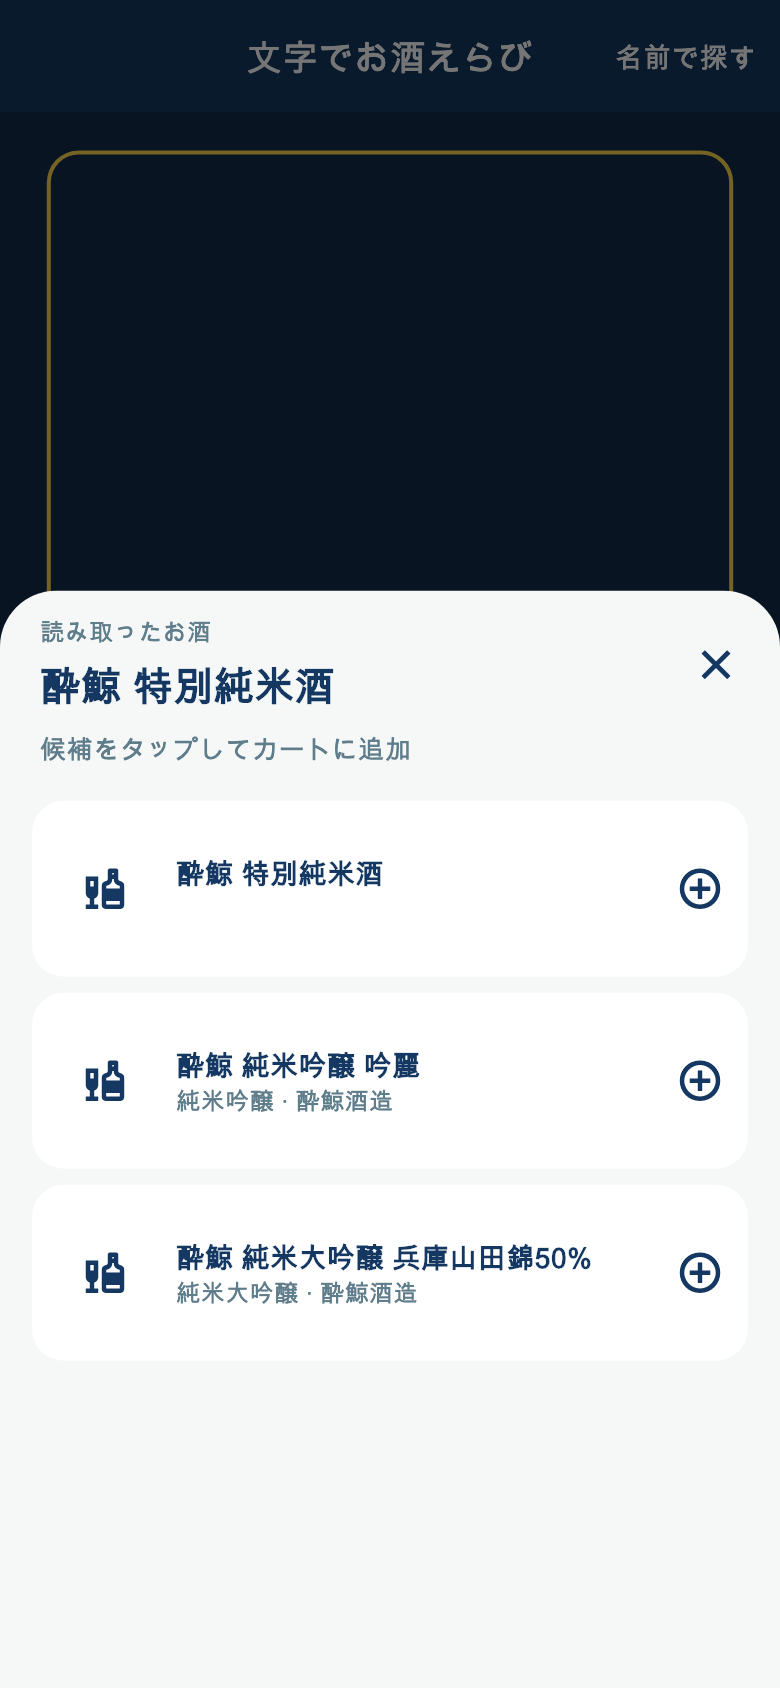
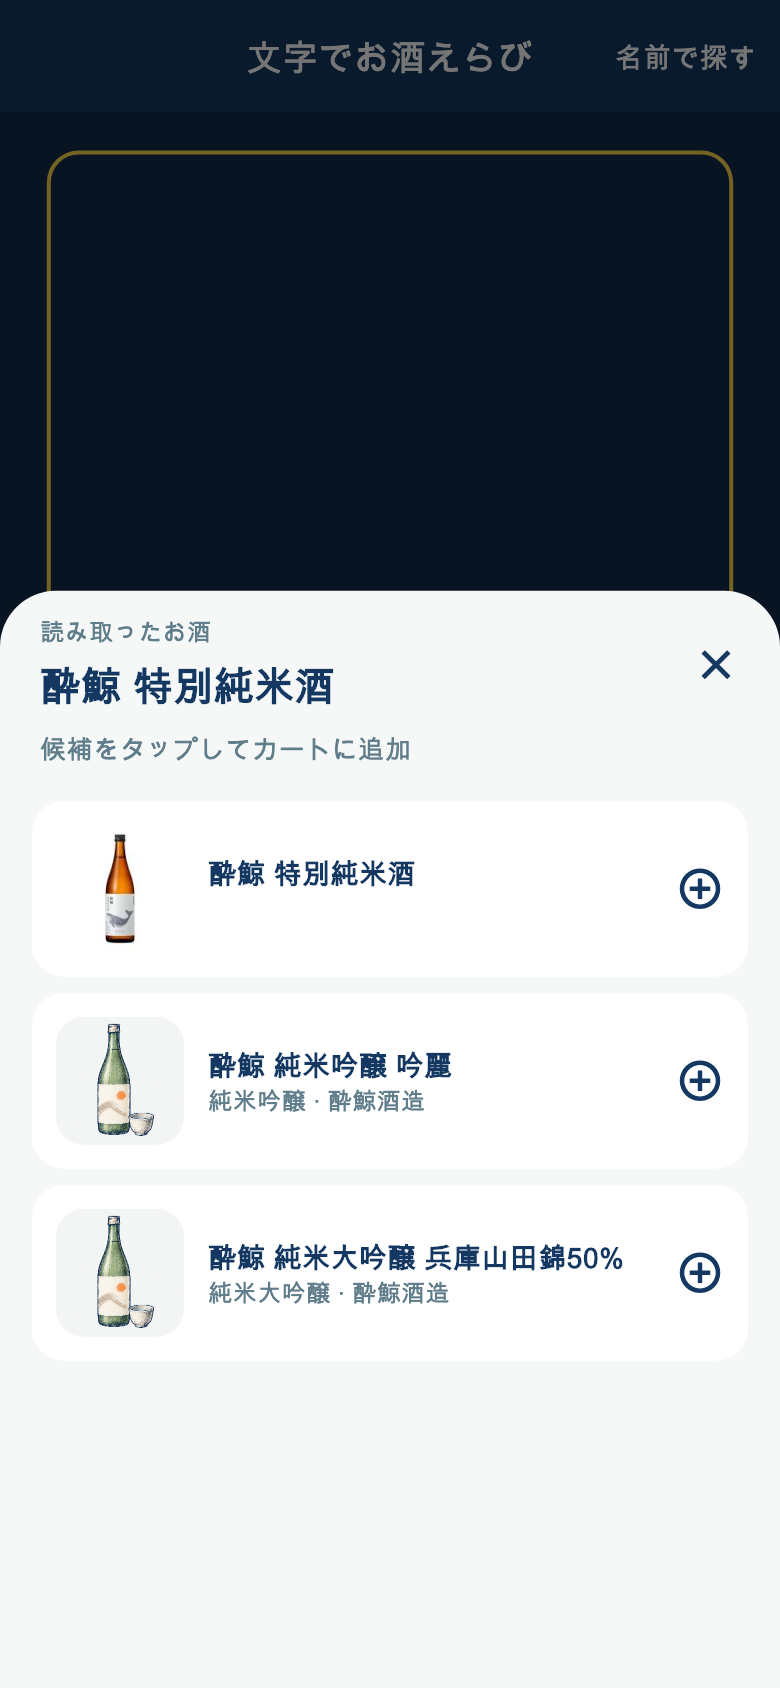
Use catalog photos and illustrated fallback in live scan candidates

diff --git a/test/presentation/sake_comparison/live_sake_scanner_test.dart b/test/presentation/sake_comparison/live_sake_scanner_test.dart
@@ -23,6 +23,7 @@ import 'package:mola_gemini_flutter_template/presentation/sake_comparison/device
 import 'package:mola_gemini_flutter_template/presentation/sake_comparison/live_sake_scanner_page.dart';
 import 'package:mola_gemini_flutter_template/presentation/sake_comparison/live_sake_search.dart';
 import '../../support/fake_menu_camera.dart';
+import '../../support/fake_network_images.dart';
 
 class StreamingCamera extends FakeMenuCamera {
   final frames = StreamController<CameraImageData>.broadcast();
@@ -61,6 +62,21 @@ void main() {
     'candidate sheet pauses OCR, closes without selection, and adds twice with haptics and cart flights',
     (tester) async {
       const output = String.fromEnvironment('LIVE_SAKE_UI_OUTPUT');
+      const photoPath = String.fromEnvironment('LIVE_SAKE_PHOTO');
+      final photoBytes = await tester.runAsync(
+        () => File(
+          photoPath.isEmpty
+              ? 'assets/images/sake_catalog_illustration.png'
+              : photoPath,
+        ).readAsBytes(),
+      );
+      final images = FakeImageClient(photoBytes!);
+      debugNetworkImageHttpClientProvider = () => images;
+      addTearDown(() {
+        debugNetworkImageHttpClientProvider = null;
+        PaintingBinding.instance.imageCache.clear();
+        PaintingBinding.instance.imageCache.clearLiveImages();
+      });
       final original = CameraPlatform.instance;
       final camera = StreamingCamera();
       CameraPlatform.instance = camera;
@@ -134,6 +150,10 @@ void main() {
               sakeId: query.contains('阿櫻') ? 2 : 1,
               name: query.contains('阿櫻') ? '阿櫻 特別純米' : '酔鯨 特別純米酒',
               isMaster: true,
+              thumbnailImageUrl: 'https://example.invalid/missing-thumb.jpg',
+              primaryImageUrl: query.contains('阿櫻')
+                  ? null
+                  : 'https://item-shopping.c.yimg.jp/i/g/fukumasu-ya_19533x001',
             ),
             if (!query.contains('阿櫻')) ...[
               const SakeMapSearchResult(
@@ -264,6 +284,22 @@ void main() {
       );
       expect(haptics, hasLength(2));
       expect(searches, isNotEmpty);
+      await tester.runAsync(
+        () async => Future<void>.delayed(const Duration(milliseconds: 100)),
+      );
+      await tester.pumpAndSettle();
+      expect(
+        images.requested.map((u) => u.path),
+        containsAllInOrder([
+          '/missing-thumb.jpg',
+          '/i/g/fukumasu-ya_19533x001',
+        ]),
+      );
+      expect(
+        find.byKey(const ValueKey('sake-catalog-illustration')),
+        findsNWidgets(2),
+      );
+      expect(find.byIcon(Icons.liquor), findsNothing);
       await shot('01-candidates');
       await tester.tap(find.byIcon(Icons.add_circle_outline).first);
       await tester.pump();
@@ -294,6 +330,7 @@ void main() {
       await tester.pumpWidget(const SizedBox());
       await tester.pump();
       expect(camera.disposed, isNotEmpty);
+      debugNetworkImageHttpClientProvider = null;
       debugDefaultTargetPlatformOverride = null;
     },
   );

diff --git a/lib/presentation/sake_comparison/live_sake_scanner_page.dart b/lib/presentation/sake_comparison/live_sake_scanner_page.dart
@@ -8,6 +8,7 @@ import 'package:flutter/services.dart';
 import '../../domain/eintities/preferences/taste_preference_profile.dart';
 import '../../domain/eintities/response/sake_menu_recognition_response/sake_menu_recognition_response.dart';
 import '../../domain/repository/place_map_repository.dart';
+import '../new_home/widgets/sake_catalog_thumbnail.dart';
 import 'comparison_item.dart';
 import 'comparison_sketch_icon.dart';
 import 'device_text_reader.dart';
@@ -609,7 +610,6 @@ class _LiveSakeScannerPageState extends State<LiveSakeScannerPage>
         text: '',
         profile: profile,
       ).match(widget.preference);
-      final image = candidate.thumbnailImageUrl ?? candidate.primaryImageUrl;
       return Material(
         color: Colors.white,
         borderRadius: BorderRadius.circular(16),
@@ -623,17 +623,10 @@ class _LiveSakeScannerPageState extends State<LiveSakeScannerPage>
             padding: const EdgeInsets.all(12),
             child: Row(
               children: [
-                SizedBox(
-                  width: 48,
-                  height: 64,
-                  child: image == null
-                      ? const Icon(Icons.liquor, color: _navy)
-                      : Image.network(
-                          image,
-                          fit: BoxFit.contain,
-                          errorBuilder: (_, _, _) =>
-                              const Icon(Icons.liquor, color: _navy),
-                        ),
+                SakeCatalogThumbnail(
+                  thumbnailImageUrl: candidate.thumbnailImageUrl,
+                  primaryImageUrl: candidate.primaryImageUrl,
+                  size: 64,
                 ),
                 const SizedBox(width: 12),
                 Expanded(

diff --git a/test/support/fake_network_images.dart b/test/support/fake_network_images.dart
@@ -1,0 +1,54 @@
+import 'dart:async';
+import 'dart:io';
+
+/// Serves image bytes deterministically without accessing the network in tests.
+class FakeImageClient implements HttpClient {
+  FakeImageClient(this.bytes);
+  final List<int> bytes;
+  final requested = <Uri>[];
+
+  @override
+  Future<HttpClientRequest> getUrl(Uri url) async {
+    requested.add(url);
+    return _ImageRequest(bytes, url.path.contains('missing') ? 404 : 200);
+  }
+
+  @override
+  dynamic noSuchMethod(Invocation invocation) => super.noSuchMethod(invocation);
+}
+
+class _ImageRequest implements HttpClientRequest {
+  _ImageRequest(this.bytes, this.status);
+  final List<int> bytes;
+  final int status;
+  @override
+  Future<HttpClientResponse> close() async => _ImageResponse(bytes, status);
+  @override
+  dynamic noSuchMethod(Invocation invocation) => super.noSuchMethod(invocation);
+}
+
+class _ImageResponse extends Stream<List<int>> implements HttpClientResponse {
+  _ImageResponse(this.bytes, this.statusCode);
+  final List<int> bytes;
+  @override
+  final int statusCode;
+  @override
+  int get contentLength => bytes.length;
+  @override
+  HttpClientResponseCompressionState get compressionState =>
+      HttpClientResponseCompressionState.notCompressed;
+  @override
+  StreamSubscription<List<int>> listen(
+    void Function(List<int>)? onData, {
+    Function? onError,
+    void Function()? onDone,
+    bool? cancelOnError,
+  }) => Stream.value(bytes).listen(
+    onData,
+    onError: onError,
+    onDone: onDone,
+    cancelOnError: cancelOnError,
+  );
+  @override
+  dynamic noSuchMethod(Invocation invocation) => super.noSuchMethod(invocation);
+}

diff --git a/docs/LIVE_TEXT_CANDIDATE_SHEET_20261107.md b/docs/LIVE_TEXT_CANDIDATE_SHEET_20261107.md
@@ -5,6 +5,7 @@
 ## 操作
 
 - 安定した文字からマスター候補が返った時に一度振動し、下から少し弾む候補シートを開く。候補カードの画像・名称・分類・蔵元・取得できたマッチ度の表示は維持。
+- 画像は既存のSakeCatalogThumbnailで表示。サムネイル→元画像の順に試し、未設定・プレースホルダーURL・読み込み中・取得失敗では既存のお酒のNo Imageイラストを表示する。
 - シートが開いた瞬間から閉じ終わるまでOCRの呼び出しを止め、処理中だったフレームの返却も採用しない。カメラ映像とプレビューは維持する。
 - 右上×で未選択のまま閉じて認識を再開。遅れて返る検索が再度シートを開かないよう世代を無効化。同じ読み取り直後の開き直しも抑止し、別の名前・種類または空白を挟むと再び検出できる。
 - 候補をタップして保存が成功したら振動し、シートを閉じてカートに入るアニメーションを表示。カート画面へ遷移せず認識を再開する。カートを見るボタンを明示的に押したときだけカートに戻る。
@@ -23,7 +24,9 @@
 
 確認項目: シート内と閉じる途中にOCR呼び出しが増えないこと、×で保存せず再開すること、検出と追加の振動回数、追加時の飛翔表示、カート画面に遷移せず2件を連続追加すること、文字と種類の見出し、種類一致の優先、20件を超える異種候補の保持、古い応答の抑止、既存検索・比較・カート保存の回帰。
 
-実装プレビューはウィジェットテストのカメラ代替表示と候補データを使用。端末の実際の振動感、店内の手持ち認識精度は未確認。
+画像表示追加後の操作・検索・画像ユーティリティ17テスト成功。サムネイル失敗後に元画像を取得する順序、画像なしのイラスト表示、旧汎用アイコンがないことも検証。
+
+実装プレビューはウィジェットテストのカメラ代替表示と候補データを使用。先頭の酔鯨 特別純米酒には本番マスターが保持する実際の商品写真を使用し、残りの2件は画像未設定時の表示を示している（説明用テストデータ）。商品写真URL: https://item-shopping.c.yimg.jp/i/g/fukumasu-ya_19533x001 。端末の実際の振動感、店内の手持ち認識精度は未確認。
 
 ![候補シート](screenshots/20261107-live-text-candidate-sheet.png)
 ![追加アニメーション](screenshots/20261107-live-text-cart-flight.png)
